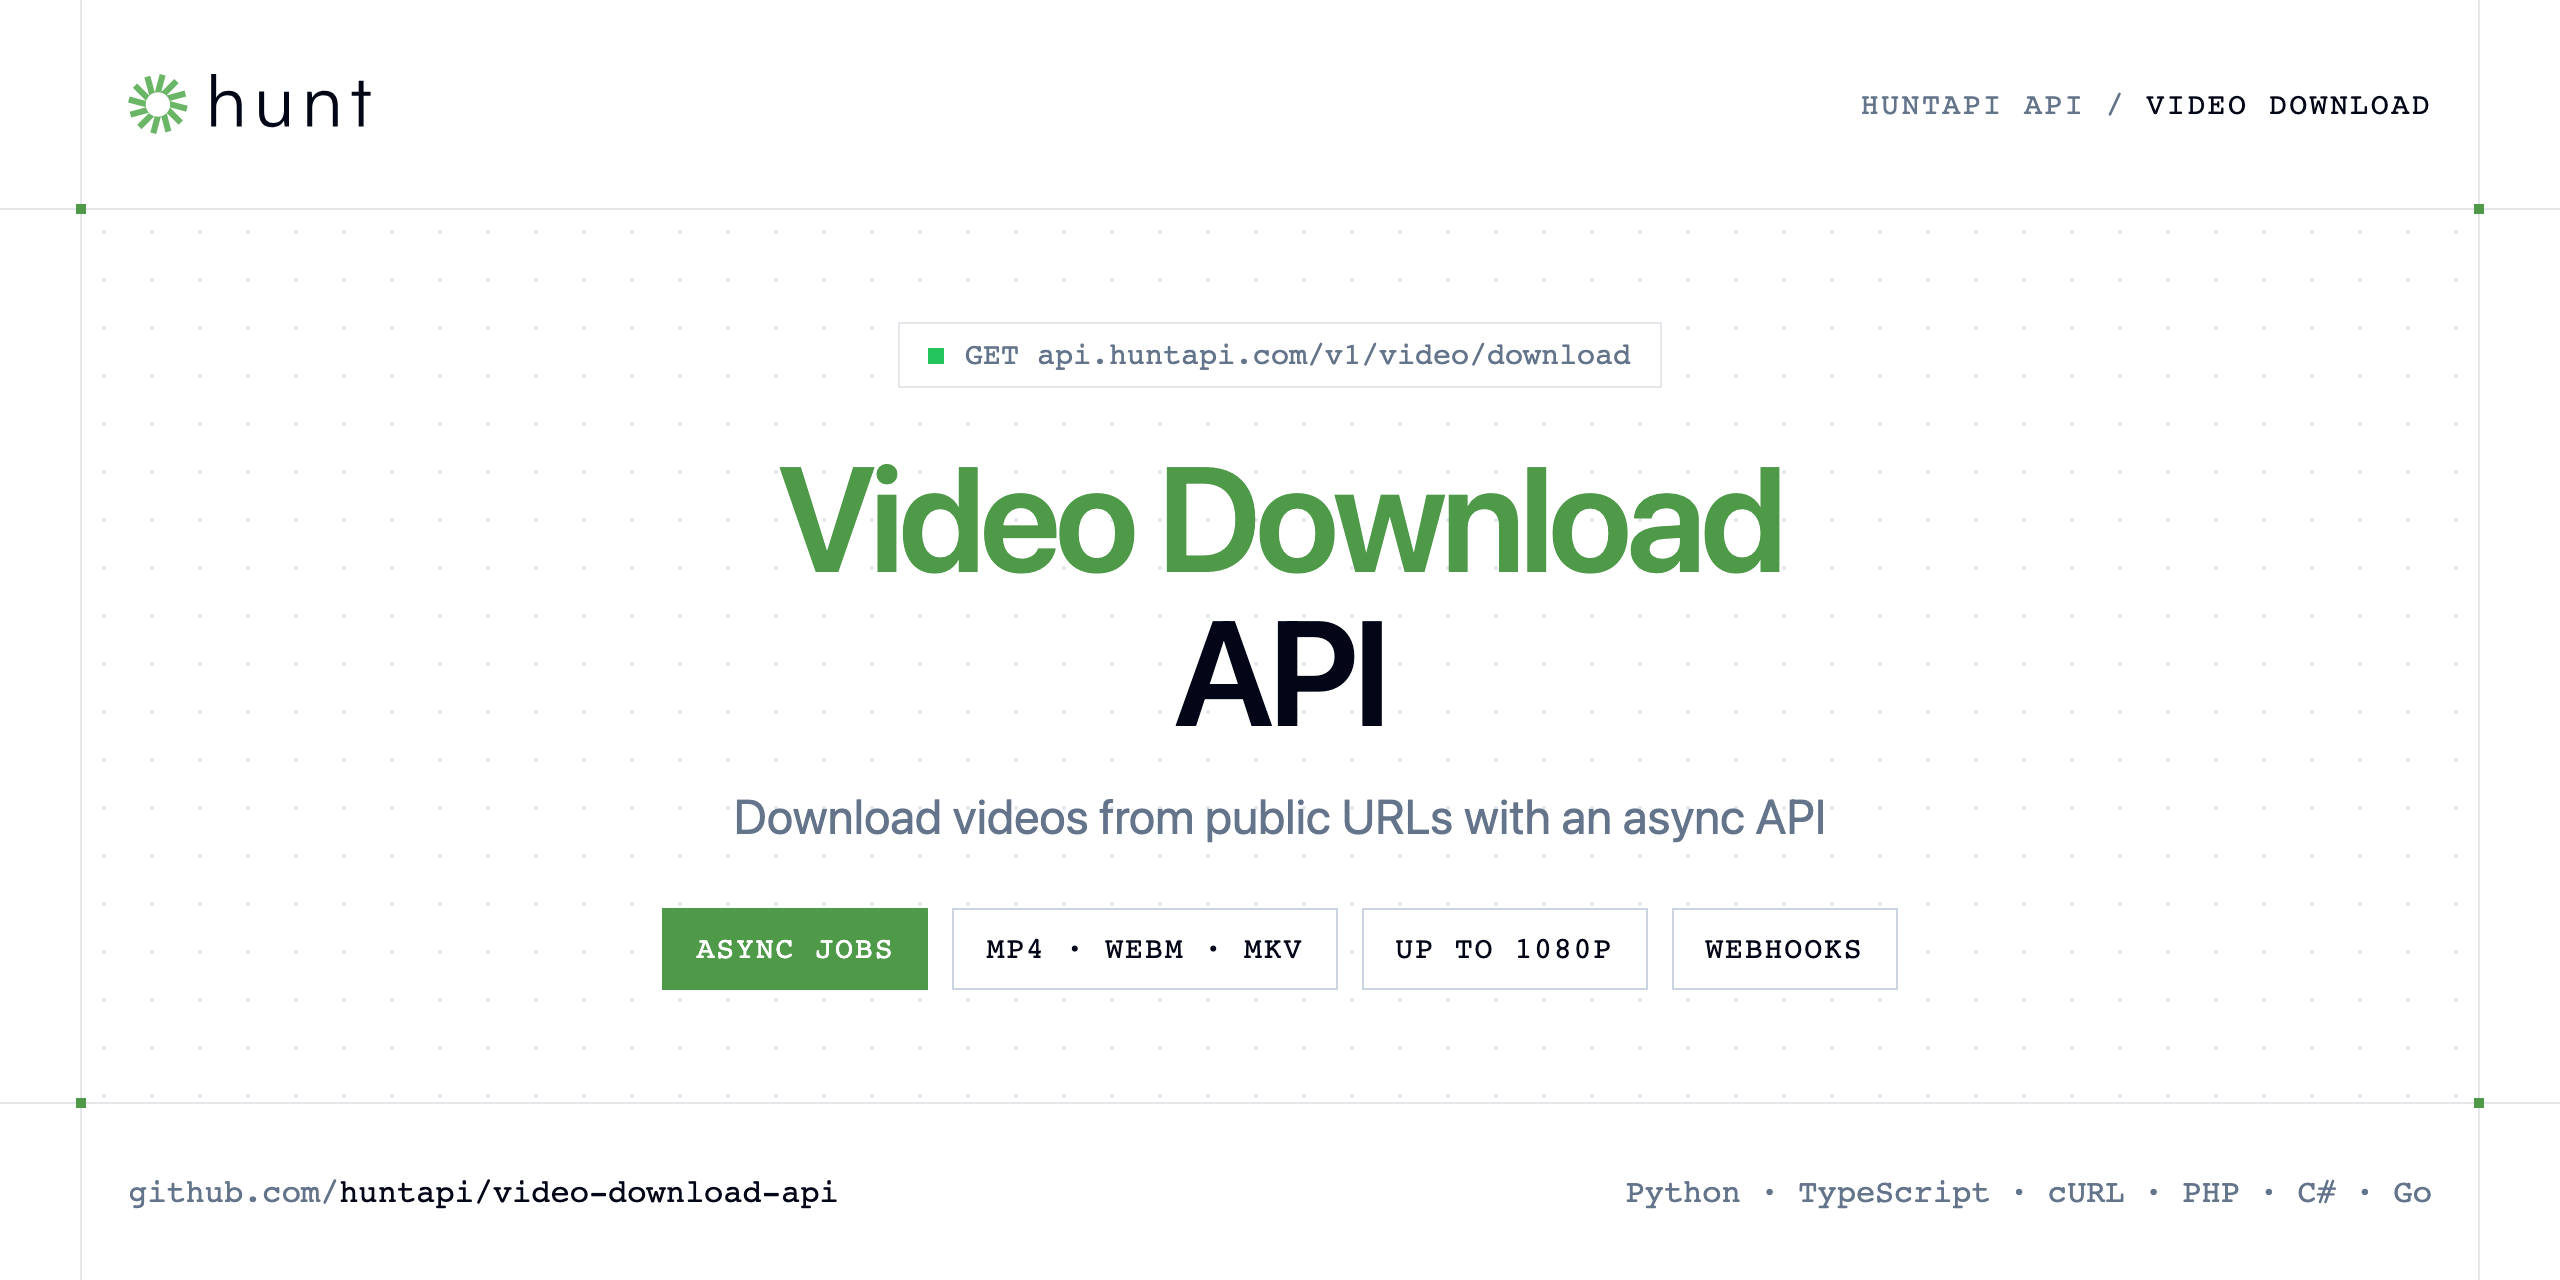
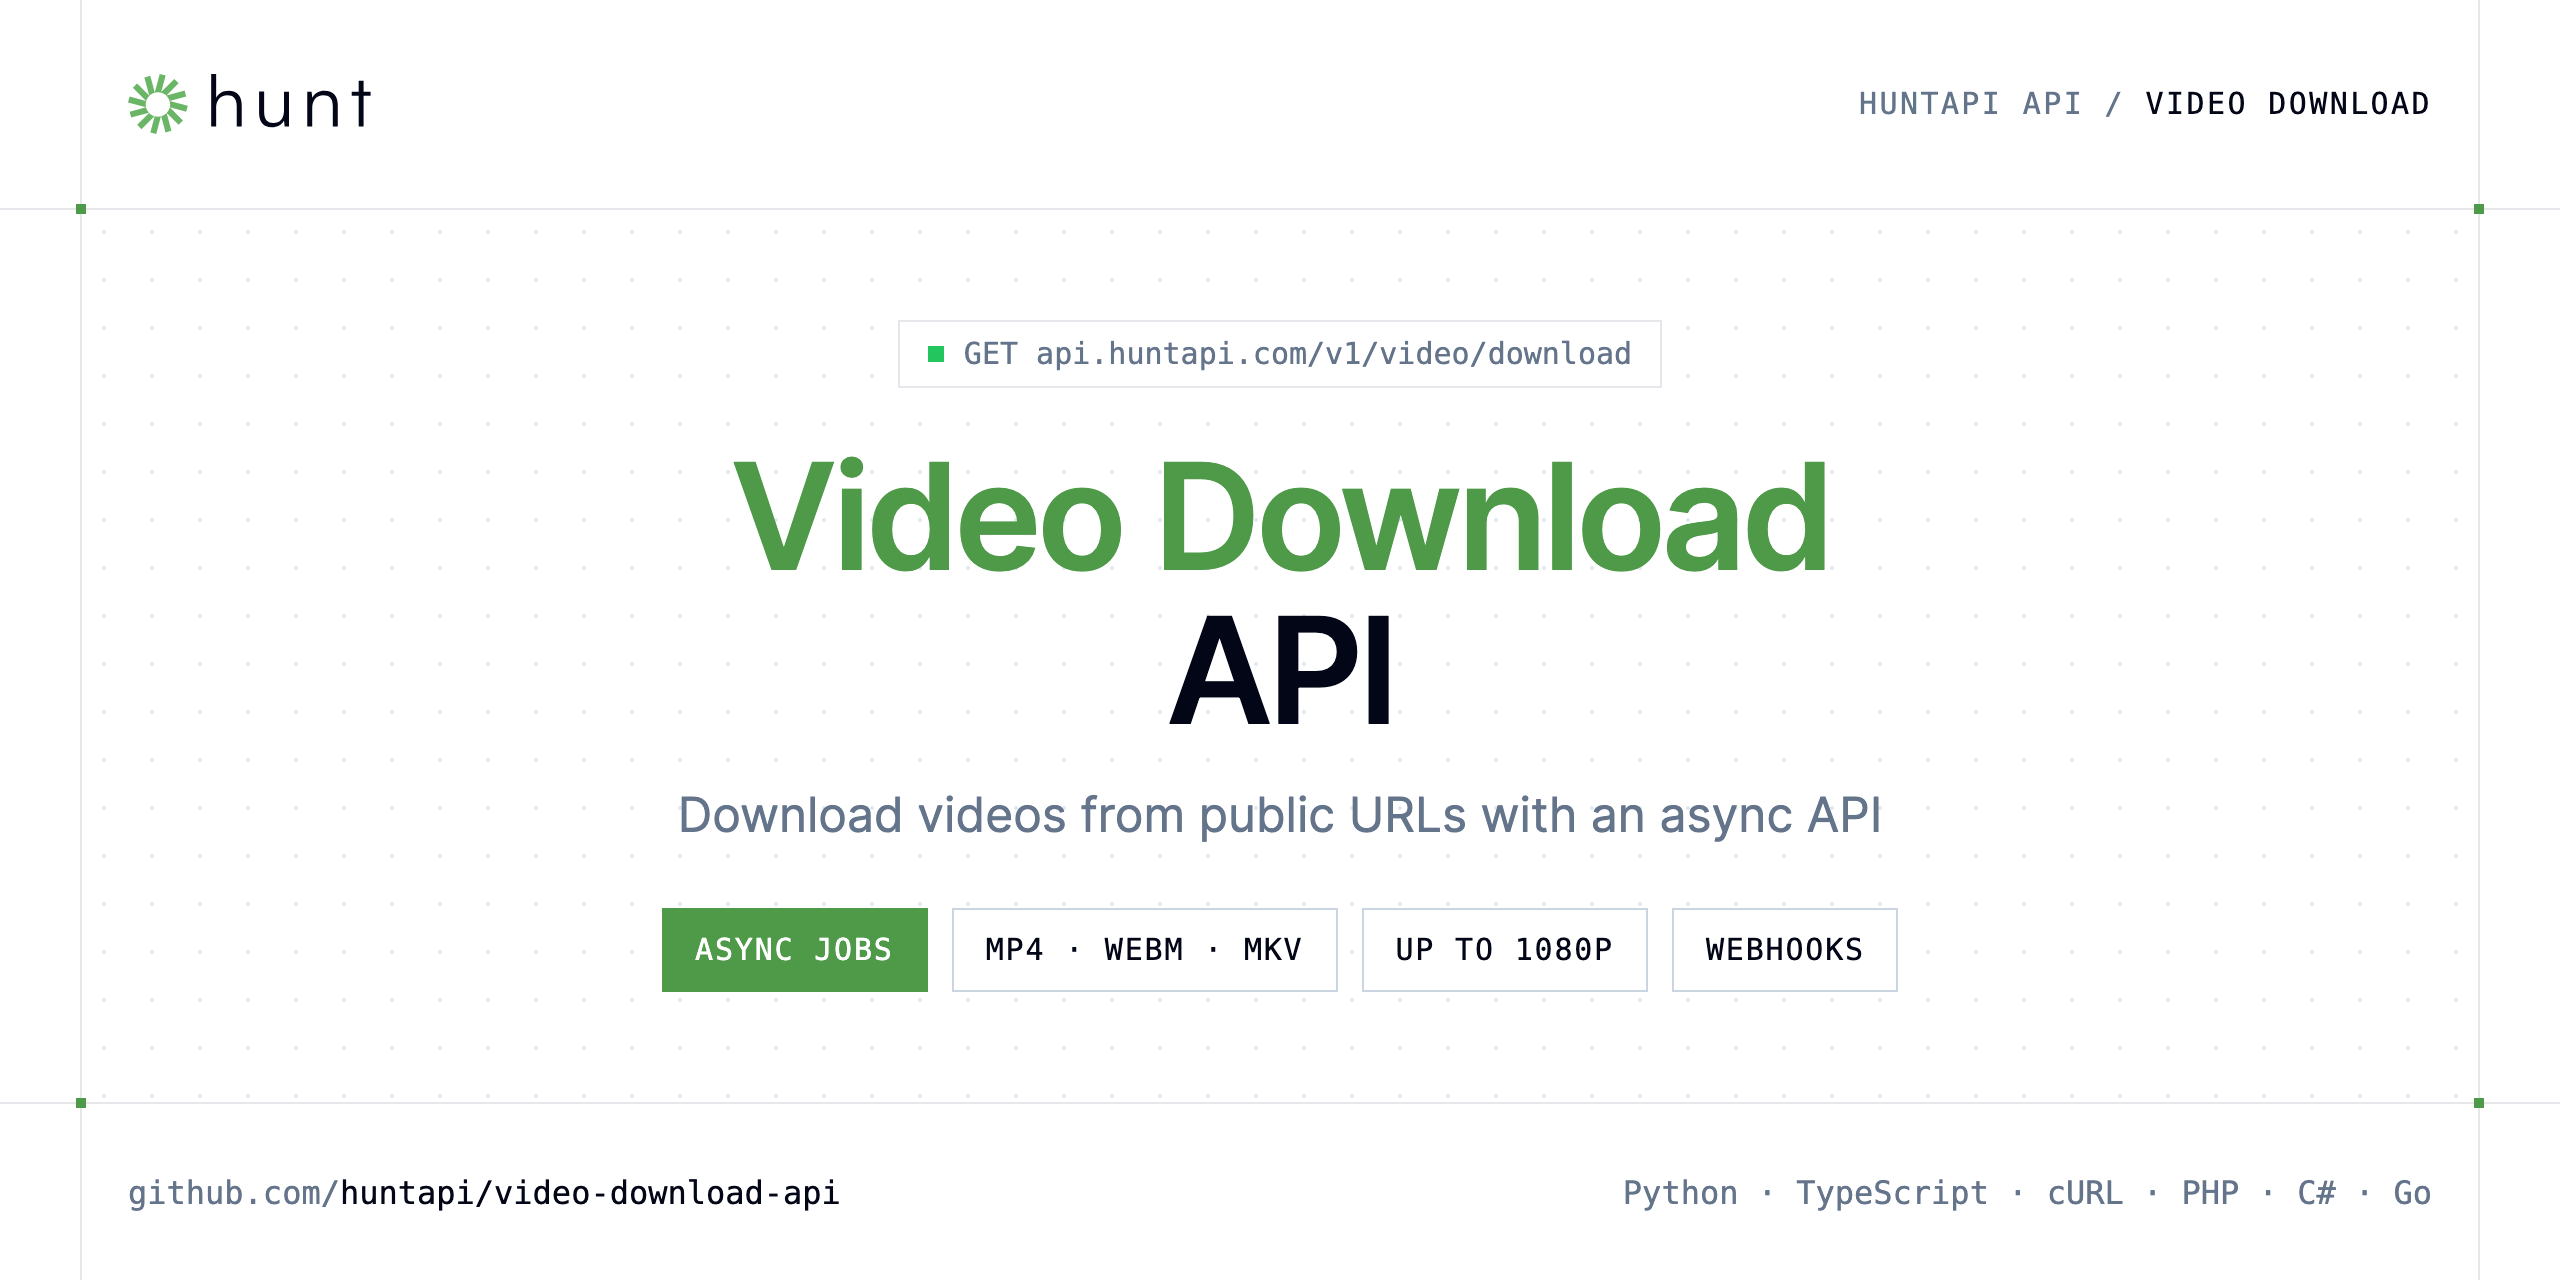
Update Video Download API examples and docs

diff --git a/examples/java/VideoDownloadExample.java b/examples/java/VideoDownloadExample.java
@@ -46,14 +46,18 @@ public class VideoDownloadExample {
         HttpResponse<byte[]> response = call("GET", "https://api.huntapi.com/v1/video/download" + (query.isEmpty() ? "" : "?" + query), null);
         String jobId = field(new String(response.body(), StandardCharsets.UTF_8), "job_id");
         Set<String> done = Set.of("CompletedJob", "Error", "NotFound", "BadRequest");
-        String job;
-        while (true) {
-            Thread.sleep(5000);
+        String job = "";
+        String status = "";
+        for (int i = 0; i < 4320 && !done.contains(status); i++) { // give up after 12 hours
+            Thread.sleep(10000);
             job = new String(call("GET", "https://api.huntapi.com/v1/jobs/" + jobId + "", null).body(), StandardCharsets.UTF_8);
-            String status = field(job, "status");
+            status = field(job, "status");
             System.out.println(status);
-            if (done.contains(status)) break;
         }
         System.out.println(job);
+        if (!status.equals("CompletedJob")) {
+            System.err.println("Job " + jobId + " not completed: " + status);
+            System.exit(1);
+        }
     }
 }

diff --git a/examples/csharp/VideoDownload.cs b/examples/csharp/VideoDownload.cs
@@ -19,13 +19,18 @@ if (!response.IsSuccessStatusCode)
 
 var jobId = JsonDocument.Parse(await response.Content.ReadAsStringAsync()).RootElement.GetProperty("job_id").GetString();
 var done = new HashSet<string> { "CompletedJob", "Error", "NotFound", "BadRequest" };
-JsonElement job;
-while (true)
+JsonElement job = default;
+var status = "";
+for (var i = 0; i < 4320 && !done.Contains(status); i++) // give up after 12 hours
 {
-    await Task.Delay(5000);
-    job = JsonDocument.Parse(await http.GetStringAsync($"https://api.huntapi.com/v1/jobs/{jobId}")).RootElement;
-    var status = job.GetProperty("status").GetString()!;
+    await Task.Delay(10000);
+    job = JsonDocument.Parse(await http.GetStringAsync($"https://api.huntapi.com/v1/jobs/{jobId}")).RootElement; // throws on HTTP errors
+    status = job.GetProperty("status").GetString()!;
     Console.WriteLine(status);
-    if (done.Contains(status)) break;
+}
+if (status != "CompletedJob")
+{
+    Console.Error.WriteLine($"Job {jobId} not completed: {status}");
+    Environment.Exit(1);
 }
 Console.WriteLine(job.GetProperty("result"));

diff --git a/examples/php/video_download.php b/examples/php/video_download.php
@@ -34,10 +34,16 @@ $query = http_build_query([
 $response = call('GET', 'https://api.huntapi.com/v1/video/download' . ($query ? '?' . $query : ''));
 
 $jobId = json_decode($response, true)['job_id'];
-do {
-    sleep(5);
+$job = null;
+for ($i = 0; $i < 4320; $i++) { // give up after 12 hours
+    sleep(10);
     $job = json_decode(call('GET', 'https://api.huntapi.com/v1/jobs/' . $jobId . ''), true);
     echo $job['status'], ' ', $job['progress'] ?? '', PHP_EOL;
-} while (!in_array($job['status'], ['CompletedJob', 'Error', 'NotFound', 'BadRequest'], true));
+    if (in_array($job['status'], ['CompletedJob', 'Error', 'NotFound', 'BadRequest'], true)) break;
+}
 
 echo json_encode($job['result'] ?? null, JSON_PRETTY_PRINT | JSON_UNESCAPED_SLASHES), PHP_EOL;
+if (($job['status'] ?? '') !== 'CompletedJob') {
+    fwrite(STDERR, "Job $jobId not completed: " . ($job['status'] ?? 'unknown') . "\n");
+    exit(1);
+}

diff --git a/examples/go/video_download.go b/examples/go/video_download.go
@@ -55,10 +55,11 @@ func main() {
 	json.Unmarshal(data, &submitted)
 	jobID := fmt.Sprint(submitted["job_id"])
 	var job map[string]any
-	for {
-		time.Sleep(5 * time.Second)
+	status := ""
+	for i := 0; i < 4320; i++ { // give up after 12 hours
+		time.Sleep(10 * time.Second)
 		json.Unmarshal(call("GET", "https://api.huntapi.com/v1/jobs/"+jobID+"", nil), &job)
-		status := fmt.Sprint(job["status"])
+		status = fmt.Sprint(job["status"])
 		fmt.Println(status, job["progress"])
 		if status == "CompletedJob" || status == "Error" || status == "NotFound" || status == "BadRequest" {
 			break
@@ -66,4 +67,8 @@ func main() {
 	}
 	out, _ := json.MarshalIndent(job["result"], "", "  ")
 	fmt.Println(string(out))
+	if status != "CompletedJob" {
+		fmt.Fprintf(os.Stderr, "job %s not completed: %s\n", jobID, status)
+		os.Exit(1)
+	}
 }

diff --git a/examples/ruby/video_download.rb b/examples/ruby/video_download.rb
@@ -23,12 +23,13 @@ uri.query = URI.encode_www_form('query' => 'https://www.youtube.com/watch?v=Z5YP
 response = call("GET", uri.to_s)
 
 job_id = JSON.parse(response).fetch("job_id")
-job = nil
-loop do
-  sleep 5
+job = {}
+4320.times do # give up after 12 hours
+  sleep 10
   job = JSON.parse(call("GET", "https://api.huntapi.com/v1/jobs/#{job_id}"))
   puts "#{job['status']} #{job['progress']}"
   break if ["CompletedJob", "Error", "NotFound", "BadRequest"].include?(job["status"])
 end
 
 puts JSON.pretty_generate(job["result"] || {})
+abort "Job #{job_id} not completed: #{job['status']}" unless job["status"] == "CompletedJob"

diff --git a/README.md b/README.md
@@ -82,14 +82,20 @@ response.raise_for_status()
 
 job_id = response.json()["job_id"]
 
-# Poll the job until it reaches a final status
-while True:
-    job = requests.get(f"https://api.huntapi.com/v1/jobs/{job_id}", headers=HEADERS, timeout=60).json()
+# Poll the job until it reaches a final status (give up after 12 hours)
+for _ in range(4320):
+    time.sleep(10)
+    poll = requests.get(f"https://api.huntapi.com/v1/jobs/{job_id}", headers=HEADERS, timeout=120)
+    poll.raise_for_status()
+    job = poll.json()
     print(job["status"], job.get("progress"))
     if job["status"] in ("CompletedJob", "Error", "NotFound", "BadRequest"):
         break
-    time.sleep(5)
+else:
+    raise SystemExit(f"Job {job_id} still running after 12 hours")
 
+if job["status"] != "CompletedJob":
+    raise SystemExit("Job failed: " + job["status"])
 print(job.get("result"))
 ```
 
@@ -111,12 +117,16 @@ const { job_id: jobId } = (await response.json()) as { job_id: string };
 
 type Job = { status: string; progress?: number; result?: unknown };
 const done = new Set(["CompletedJob", "Error", "NotFound", "BadRequest"]);
-let job: Job;
-do {
-  await new Promise((r) => setTimeout(r, 5000));
-  job = (await (await fetch(`https://api.huntapi.com/v1/jobs/${jobId}`, { headers })).json()) as Job;
+let job: Job | undefined;
+for (let i = 0; i < 4320; i++) { // give up after 12 hours
+  await new Promise((r) => setTimeout(r, 10000));
+  const poll = await fetch(`https://api.huntapi.com/v1/jobs/${jobId}`, { headers });
+  if (!poll.ok) throw new Error(`HTTP ${poll.status}: ${await poll.text()}`);
+  job = (await poll.json()) as Job;
   console.log(job.status, job.progress);
-} while (!done.has(job.status));
+  if (done.has(job.status)) break;
+}
+if (job?.status !== "CompletedJob") throw new Error(`Job ${jobId} not completed: ${job?.status}`);
 
 console.log(job.result);
 ```
@@ -126,6 +136,8 @@ console.log(job.result);
 1. The request returns `{"job_id": "…"}` immediately.
 2. Poll `GET https://api.huntapi.com/v1/jobs/{id}` every few seconds — `status` goes from `Queued` to `Running` (with `progress` 0–100) to a final value: `CompletedJob`, `Error`, `NotFound`, `BadRequest`.
 3. When `status` is `CompletedJob`, read `result` (download link and metadata).
+
+Jobs on very long videos can take up to 12 hours before they time out: the examples poll every 10 seconds and give up after 12 hours.
 
 Prefer push over polling? Pass `webhook_url` and the result is POSTed to your endpoint.
 
